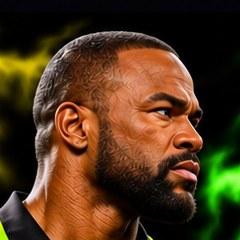
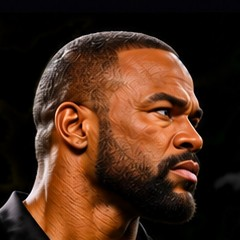
Heads: colored smoke removed from behind both faces
Claude-Session: https://claude.ai/code/session_01RXYkimbn35SjoihCfai7fS

diff --git a/index.html b/index.html
@@ -18,7 +18,7 @@ img { max-width: 100%; }
 [hidden] { display: none !important; }
 </style>
 <script>
-window.FL_BUILD = "20261120204323";
+window.FL_BUILD = "20261120204443";
 window.FL_RELAY = "wss://relay-production-5e78c1a2.up.railway.app/ws";
 window.FL_STATS = "https://relay-production-5e78c1a2.up.railway.app/t";
 window.FL_FEEDBACK = "https://relay-production-5e78c1a2.up.railway.app/feedback";
@@ -736,7 +736,7 @@ body.poster-on #tapPlay { display: block; position: sticky; bottom: calc(26px + 
 </div>
 
 <script>
-window.FL_LOOK2 = 1; window.FL_PROMO = { tag: "Limited Edition · Celebrity Match Up", target: 15, adEvery: 5, modes: ["aerial", "side", "table"], teams: [0, 1, 2, 3, 4, 5], people: [{ name: "Suga Rashad Evans", team: 2, look: 1, face: "celeb-face-1.jpg?v=1", art: { 0: "celeb-1-0.jpg?v=4", 1: "celeb-1-1.jpg?v=4", 2: "celeb-1-2.jpg?v=4", 3: "celeb-1-3.jpg?v=4", 4: "celeb-1-4.jpg?v=4", 5: "celeb-1-5.jpg?v=4" } }, { name: "Ken Shamrock", team: 0, look: -1, face: "celeb-face-2.jpg?v=1", art: { 0: "celeb-2-0.jpg?v=4", 1: "celeb-2-1.jpg?v=4", 2: "celeb-2-2.jpg?v=4", 3: "celeb-2-3.jpg?v=4", 4: "celeb-2-4.jpg?v=4", 5: "celeb-2-5.jpg?v=4" } }] }; window.FL_POSTER = 1; window.FL_MUSIC = 1;
+window.FL_LOOK2 = 1; window.FL_PROMO = { tag: "Limited Edition · Celebrity Match Up", target: 15, adEvery: 5, modes: ["aerial", "side", "table"], teams: [0, 1, 2, 3, 4, 5], people: [{ name: "Suga Rashad Evans", team: 2, look: 1, face: "celeb-face-1.jpg?v=2", art: { 0: "celeb-1-0.jpg?v=4", 1: "celeb-1-1.jpg?v=4", 2: "celeb-1-2.jpg?v=4", 3: "celeb-1-3.jpg?v=4", 4: "celeb-1-4.jpg?v=4", 5: "celeb-1-5.jpg?v=4" } }, { name: "Ken Shamrock", team: 0, look: -1, face: "celeb-face-2.jpg?v=2", art: { 0: "celeb-2-0.jpg?v=4", 1: "celeb-2-1.jpg?v=4", 2: "celeb-2-2.jpg?v=4", 3: "celeb-2-3.jpg?v=4", 4: "celeb-2-4.jpg?v=4", 5: "celeb-2-5.jpg?v=4" } }] }; window.FL_POSTER = 1; window.FL_MUSIC = 1;
 /* ---------- Jai alai rules + physics (no DOM) ---------- */
 var Core = (function () {
   'use strict';
